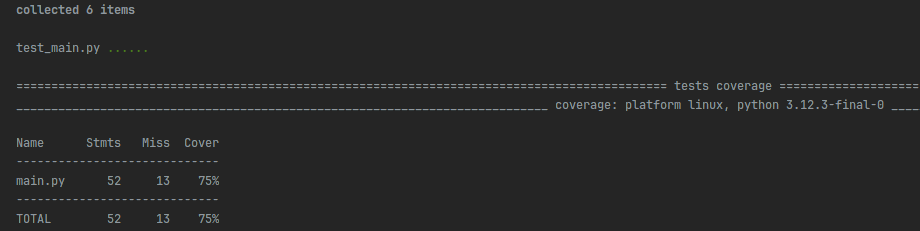
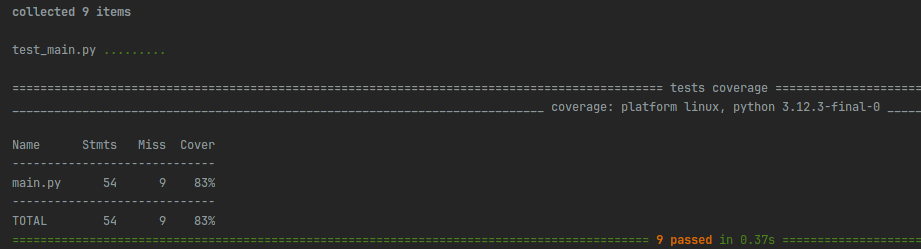
ver. 1.0

diff --git a/test_main.py b/test_main.py
@@ -1,6 +1,6 @@
 import pytest
 
-from argparse import ArgumentError, ArgumentTypeError, Namespace 
+from argparse import ArgumentError
 
 from main import (
     get_parser_args,
@@ -21,22 +21,30 @@ tests_args_data = {
     ],
     'incorrect_type_args': ['--report', 1, '--files', True],
     'empty_args': ['--report', '', '--files', ''],
-    'params_without_args': ['--report', '--files'],
+    'nonexistent_parsing_position': [
+        '--report', 'average-rating',
+        '--files', 'products1.csv', 'products3.csv'
+    ],
+    'nonexistent_file': [
+        '--report', 'average-rating',
+        '--files', 'products1.csv', 'products4.csv'
+    ],
 }
 
 
 def test_get_parser_args():
     """Проверка корректности передаваемых параметров и аргументов."""
 
-    expected_namespace = Namespace(
-        report='average-rating',
-        files=['products1.csv', 'products2.csv']
-    )
-    current_parser_namespace = get_parser_args(
-        tests_args_data['correct_args']
+    expected_params_args = {
+        'report': 'average-rating',
+        'files': ['products1.csv', 'products2.csv']
+    }
+
+    current_params_args = vars(
+        get_parser_args(tests_args_data['correct_args'])
     )
 
-    assert current_parser_namespace == expected_namespace
+    assert current_params_args == expected_params_args
 
 
 def test_get_parser_args_without_report_name():
@@ -71,6 +79,7 @@ def test_get_parser_args_with_incorrect_type():
             tests_args_data['incorrect_type_args']
         )
 
+
 def test_get_empty_parser_args():
     """Проверка обработки ввода пустых аргументов."""
 
@@ -81,11 +90,11 @@ def test_get_empty_parser_args():
 
 
 def test_create_report_data():
-    """Проверка создания сводного отчета."""
+    """Проверка корректности создания сводного отчета."""
 
     args = get_parser_args(tests_args_data['correct_args'])
 
-    test_report_data = (
+    expected_report_data = (
         'average-rating',
         [['apple', 4.55], ['samsung', 4.53], ['xiaomi', 4.37]],
         ['brand', 'rating']
@@ -95,4 +104,64 @@ def test_create_report_data():
         args.report,
         args.files,
         dir_path='files'
-    ) == test_report_data
+    ) == expected_report_data
+
+
+def test_get_parser_files_with_nonexistent_position():
+    """Проверка обработки файлов с несуществующей позицией отчета."""
+
+    with pytest.raises(KeyError):
+        args = get_parser_args(
+            tests_args_data['nonexistent_parsing_position']
+        )
+        create_report_data(
+            args.report,
+            args.files,
+            dir_path='files'
+        )
+
+
+def test_parsing_data_with_nonexistent_file():
+    """Проверка обработки данных для парсинга с несуществующим файлом."""
+
+    with pytest.raises(FileNotFoundError):
+        args = get_parser_args(
+            tests_args_data['nonexistent_file']
+        )
+        create_report_data(
+            args.report,
+            args.files,
+            dir_path='files'
+        )
+
+
+def test_print_report_data(capfd: pytest.CaptureFixture[str]):
+    """Проверка формата печати таблицы сводного отчета."""
+
+    args = get_parser_args(tests_args_data['correct_args'])
+
+    report_name, report_data, headers = create_report_data(
+        args.report,
+        args.files,
+        dir_path='files'
+    )
+
+    print_report_table(
+        report_name,
+        report_data,
+        headers
+    )
+    
+    out, _ = capfd.readouterr()
+
+    expected_table = '''average-rating
++----+---------+----------+
+|    | brand   |   rating |
++====+=========+==========+
+|  1 | apple   |     4.55 |
+|  2 | samsung |     4.53 |
+|  3 | xiaomi  |     4.37 |
++----+---------+----------+
+'''
+
+    assert out == expected_table

diff --git a/main.py b/main.py
@@ -2,17 +2,23 @@ import csv
 import os
 import sys
 
-from argparse import ArgumentParser, ArgumentError, ArgumentTypeError
+from argparse import (
+    ArgumentError,
+    ArgumentParser,
+    ArgumentTypeError,
+    Namespace
+)
+
 from tabulate import tabulate
 
 
 REPORT_CHOISES = {
     'average-rating': ['brand', 'rating'],
-    # 'average-price': ['brand', 'price'],
+    # 'average-price': ['brand', 'price'], # добавление дополнительного отчета
 }
 
 
-def check_exist_parser_args(report_param, files_param, args):
+def check_exist_parser_args(report_param, files_param, args) -> None:
     """Вспомогательная функция проверки наличия аргументов."""
 
     if not args.report:
@@ -23,16 +29,16 @@ def check_exist_parser_args(report_param, files_param, args):
         raise ArgumentError(
             files_param, 'Не выбран параметр файлов для составления отчета'
         )
-    
 
-def check_empty_input(arg):
+
+def check_empty_input(arg) -> str | None:
     """Вспомогательная функция проверки непустого ввода."""
     if not arg:
         raise ArgumentTypeError('Пустой ввод значения аргумета')
     return arg
 
 
-def get_parser_args(args=None):
+def get_parser_args(args=None) -> Namespace:
     """Функция получения аргументов командной строки."""
 
     parser = ArgumentParser(description='Report Parser')
@@ -57,7 +63,11 @@ def get_parser_args(args=None):
     return parser_args
 
 
-def create_report_data(report_name, files_data, dir_path) -> tuple:
+def create_report_data(
+    report_name: str,
+    files_data: list,
+    dir_path: str
+) -> tuple[str, list]:
     """Функция парсинга csv файлов и формирования сводного отчета."""
 
     position_value, culculated_value = REPORT_CHOISES[report_name]
@@ -74,8 +84,13 @@ def create_report_data(report_name, files_data, dir_path) -> tuple:
                         row[position_value], []
                     ).append(float(row[culculated_value]))
 
-        except:
-            raise Exception(
+        except KeyError:
+            raise KeyError(
+                f'В файле {current_file} отсутствует позиция {position_value}'
+            )
+
+        except Exception:
+            raise FileNotFoundError(
                 f'Несуществующая директория или файл "{current_files_path}"'
             )
 
@@ -94,17 +109,17 @@ def print_report_table(
     report_name: str,
     report_data: list,
     headers: list
-):
+) -> None:
     """Функция консольного вывода отчетной таблицы."""
 
-    table = tabulate(
+    report_table = tabulate(
         report_data,
         headers=headers,
         tablefmt='outline',
         showindex=range(1, len(report_data) + 1)
     )
 
-    print(report_name, table, sep='\n')
+    print(report_name, report_table, sep='\n')
 
 
 def main():

diff --git a/README.md b/README.md
@@ -2,7 +2,7 @@
 
 ## Стек:
 
-### Python, argparse, csv, tabulate, pytest 
+### Python, argparse, csv, tabulate, pytest, flake8
 
 ## Клонирование репозитория и установка зависимостей
 #### Репозиторий на GitHub:
@@ -54,6 +54,9 @@ average-rating
 - обработка ввода некорректных типов данных
 - обработка ввода пустых аргументов
 - корректность создания сводного отчета
+- обработка файлов с несуществующей позицией отчета
+- обработка данных для парсинга с несуществующим файлом
+- формат печати таблицы сводного отчета
 
 #### Запуск теста:
 ```
@@ -68,9 +71,10 @@ pytest --cov=main
 ```
 Name      Stmts   Miss  Cover
 -----------------------------
-main.py      52     13    75%
+main.py      54      9    83%
 -----------------------------
-TOTAL        52     13    75%
+TOTAL        54      9    83%
+====== 9 passed in 0.37s=====
 ```
 
 #### Автор:
